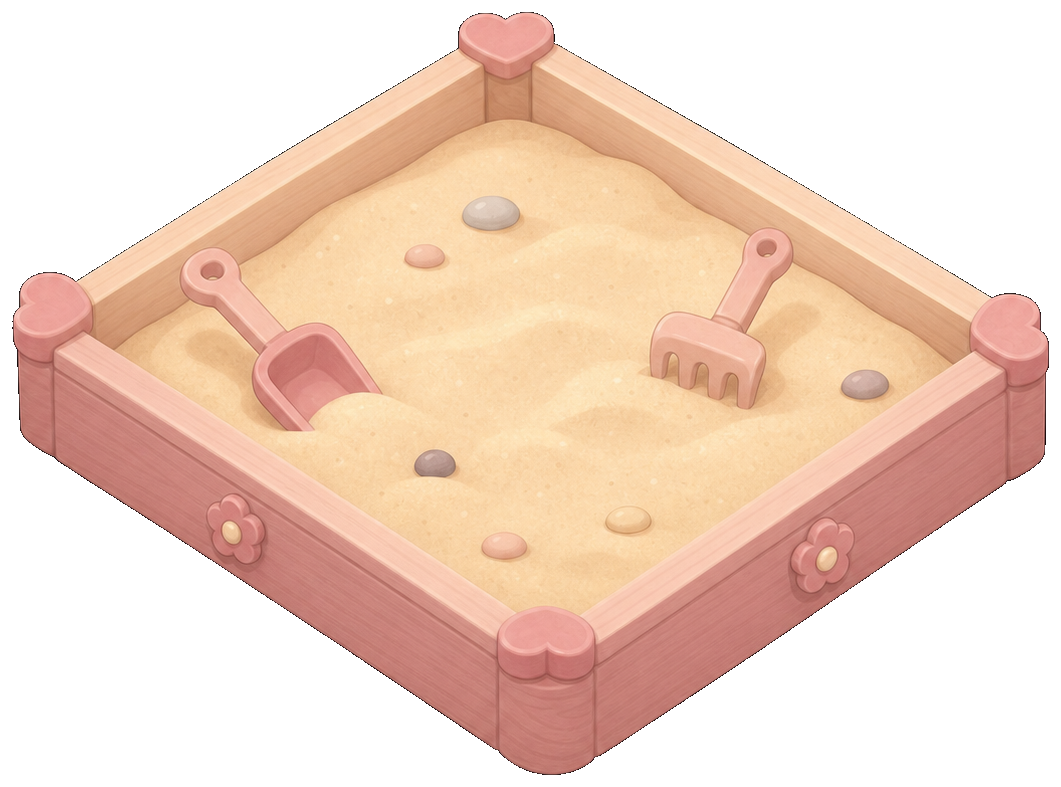
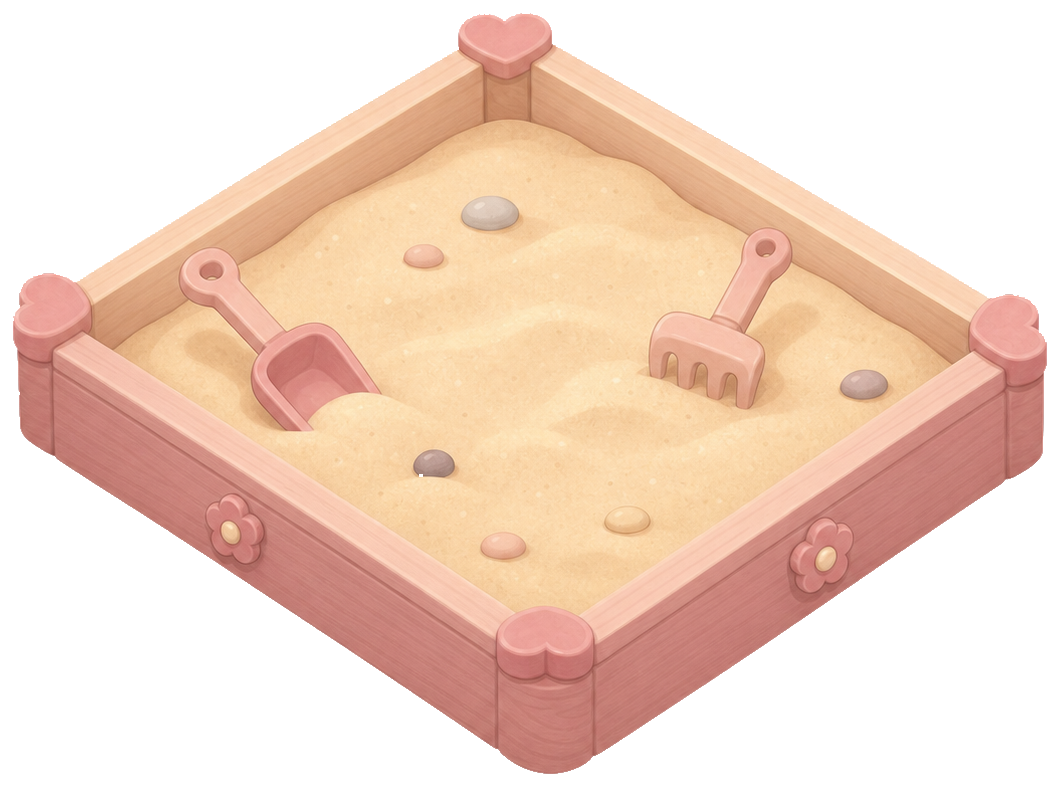
popa

diff --git a/app.js b/app.js
@@ -3,7 +3,7 @@ const ROOM_ASSETS = {
   secondFloor: "assets/second-floor.png",
 };
 
-const ITEM_MANIFEST_PATH = "assets/items/items.json?v=20260705-censored-lion-knuckles";
+const ITEM_MANIFEST_PATH = "assets/items/items.json?v=20260705-censored-annie-mattress-edgefix";
 let ITEMS = [];
 
 const PALETTE = {
@@ -110,6 +110,16 @@ const CAMERA_LIMITS = {
   minZoom: 0.65,
   maxZoom: 2.2,
   maxPanFactor: 0.85,
+  panOverscanFactor: 0.12,
+};
+
+const DESKTOP_LAYOUT_LIMITS = {
+  panelMinWidth: 288,
+  panelMaxWidth: 430,
+  panelViewportFactor: 0.12,
+  roomBaseMaxWidth: 640,
+  roomMaxWidth: 1080,
+  roomViewportFactor: 0.32,
 };
 
 const SCENE_LAYERS = {
@@ -704,10 +714,47 @@ function clampCamera() {
     CAMERA_LIMITS.maxZoom,
   );
   if (!layout?.room) return;
-  const limitX = layout.room.width * CAMERA_LIMITS.maxPanFactor * state.camera.zoom;
-  const limitY = layout.room.height * CAMERA_LIMITS.maxPanFactor * state.camera.zoom;
-  state.camera.x = clamp(state.camera.x || 0, -limitX, limitX);
-  state.camera.y = clamp(state.camera.y || 0, -limitY, limitY);
+  const bounds = cameraPanBounds();
+  state.camera.x = clamp(state.camera.x || 0, bounds.minX, bounds.maxX);
+  state.camera.y = clamp(state.camera.y || 0, bounds.minY, bounds.maxY);
+}
+
+function cameraPanBounds() {
+  const zoom = state.camera.zoom || 1;
+  const room = layout.room;
+  const viewportLeft = layout.desktop ? layout.margin : 0;
+  const viewportRight = layout.desktop && layout.panel
+    ? layout.panel.x - 18
+    : layout.width;
+  const viewportTop = room.y;
+  const viewportBottom = layout.desktop
+    ? layout.height - layout.margin
+    : layout.panel?.y || layout.height;
+  const roomLeft = room.x * zoom;
+  const roomRight = (room.x + room.width) * zoom;
+  const roomTop = room.y * zoom;
+  const roomBottom = (room.y + room.height) * zoom;
+  const fitMinX = viewportRight - roomRight;
+  const fitMaxX = viewportLeft - roomLeft;
+  const fitMinY = viewportBottom - roomBottom;
+  const fitMaxY = viewportTop - roomTop;
+  const fallbackX = room.width * CAMERA_LIMITS.maxPanFactor * zoom;
+  const fallbackY = room.height * CAMERA_LIMITS.maxPanFactor * zoom;
+  const overscanX = Math.min(
+    layout.width * CAMERA_LIMITS.panOverscanFactor,
+    room.width * zoom * CAMERA_LIMITS.maxPanFactor,
+  );
+  const overscanY = Math.min(
+    layout.height * CAMERA_LIMITS.panOverscanFactor,
+    room.height * zoom * CAMERA_LIMITS.maxPanFactor,
+  );
+
+  return {
+    minX: Math.min(fitMinX, fitMaxX, -fallbackX) - overscanX,
+    maxX: Math.max(fitMinX, fitMaxX, fallbackX) + overscanX,
+    minY: Math.min(fitMinY, fitMaxY, -fallbackY) - overscanY,
+    maxY: Math.max(fitMinY, fitMaxY, fallbackY) + overscanY,
+  };
 }
 
 function applyCameraTransform() {
@@ -933,7 +980,11 @@ function computeLayout(width) {
   const mainTop = headerTop + topbarHeight + (desktop ? 18 : 14);
 
   if (desktop) {
-    const panelWidth = 288;
+    const panelWidth = Math.round(clamp(
+      width * DESKTOP_LAYOUT_LIMITS.panelViewportFactor,
+      DESKTOP_LAYOUT_LIMITS.panelMinWidth,
+      DESKTOP_LAYOUT_LIMITS.panelMaxWidth,
+    ));
     const gap = 18;
     const panelX = width - margin - panelWidth;
     const availableMainHeight = Math.max(
@@ -942,7 +993,12 @@ function computeLayout(width) {
     );
     const widthBoundRoomWidth = panelX - margin - gap;
     const heightBoundRoomWidth = availableMainHeight / roomRatio;
-    const maxRoomWidth = Math.min(640, widthBoundRoomWidth, heightBoundRoomWidth);
+    const responsiveRoomMaxWidth = clamp(
+      width * DESKTOP_LAYOUT_LIMITS.roomViewportFactor,
+      DESKTOP_LAYOUT_LIMITS.roomBaseMaxWidth,
+      DESKTOP_LAYOUT_LIMITS.roomMaxWidth,
+    );
+    const maxRoomWidth = Math.min(responsiveRoomMaxWidth, widthBoundRoomWidth, heightBoundRoomWidth);
     const roomWidth = Math.max(320, maxRoomWidth);
     const roomHeight = roomWidth * roomRatio;
     const roomAreaWidth = panelX - gap - margin;

diff --git a/index.html b/index.html
@@ -28,6 +28,6 @@
   <body>
     <div id="app" aria-label="Kassyaka room decorator"></div>
     <script src="https://cdn.jsdelivr.net/npm/pixi.js@8.19.0/dist/pixi.min.js"></script>
-    <script src="./app.js?v=birthday-header-modal-20260705-censored-nonadult-sync"></script>
+    <script src="./app.js?v=birthday-header-modal-20260705-censored-ultrawide-layout"></script>
   </body>
 </html>